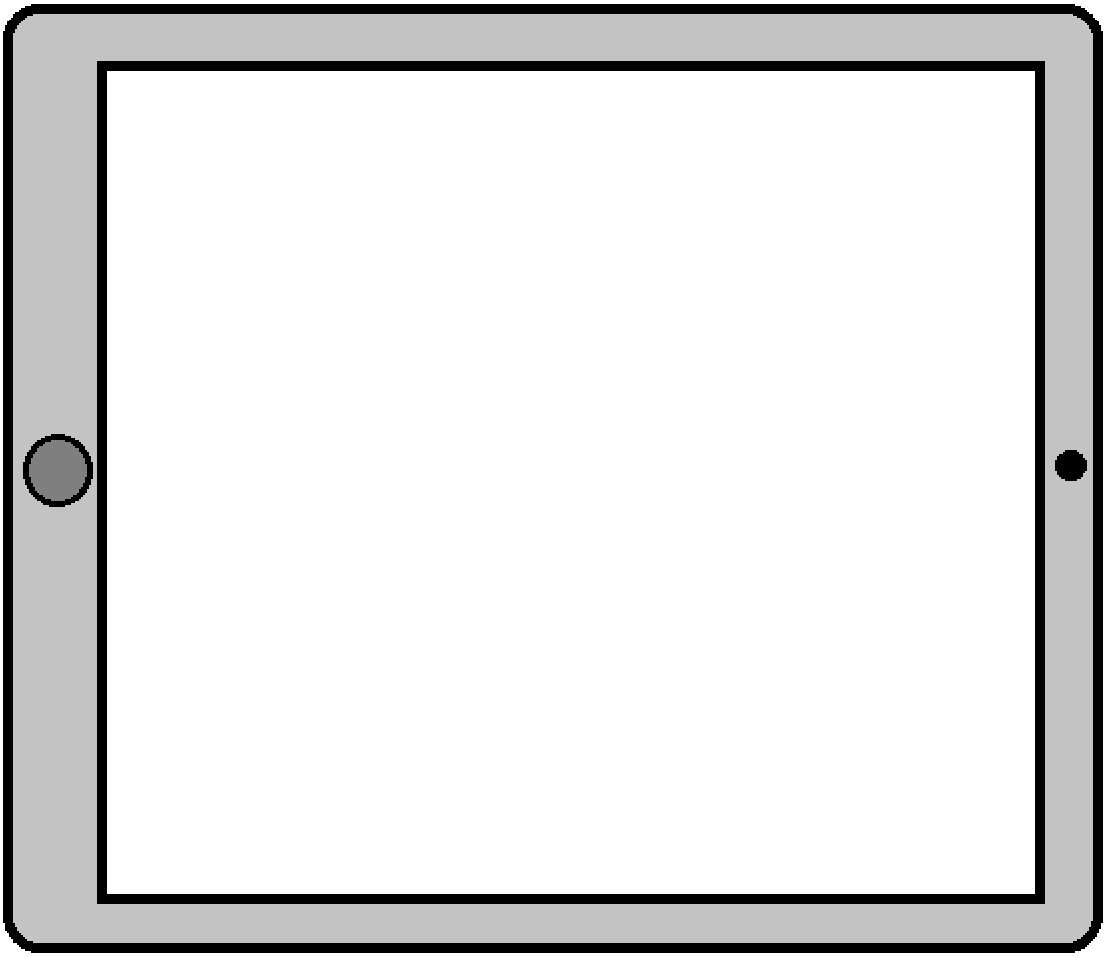
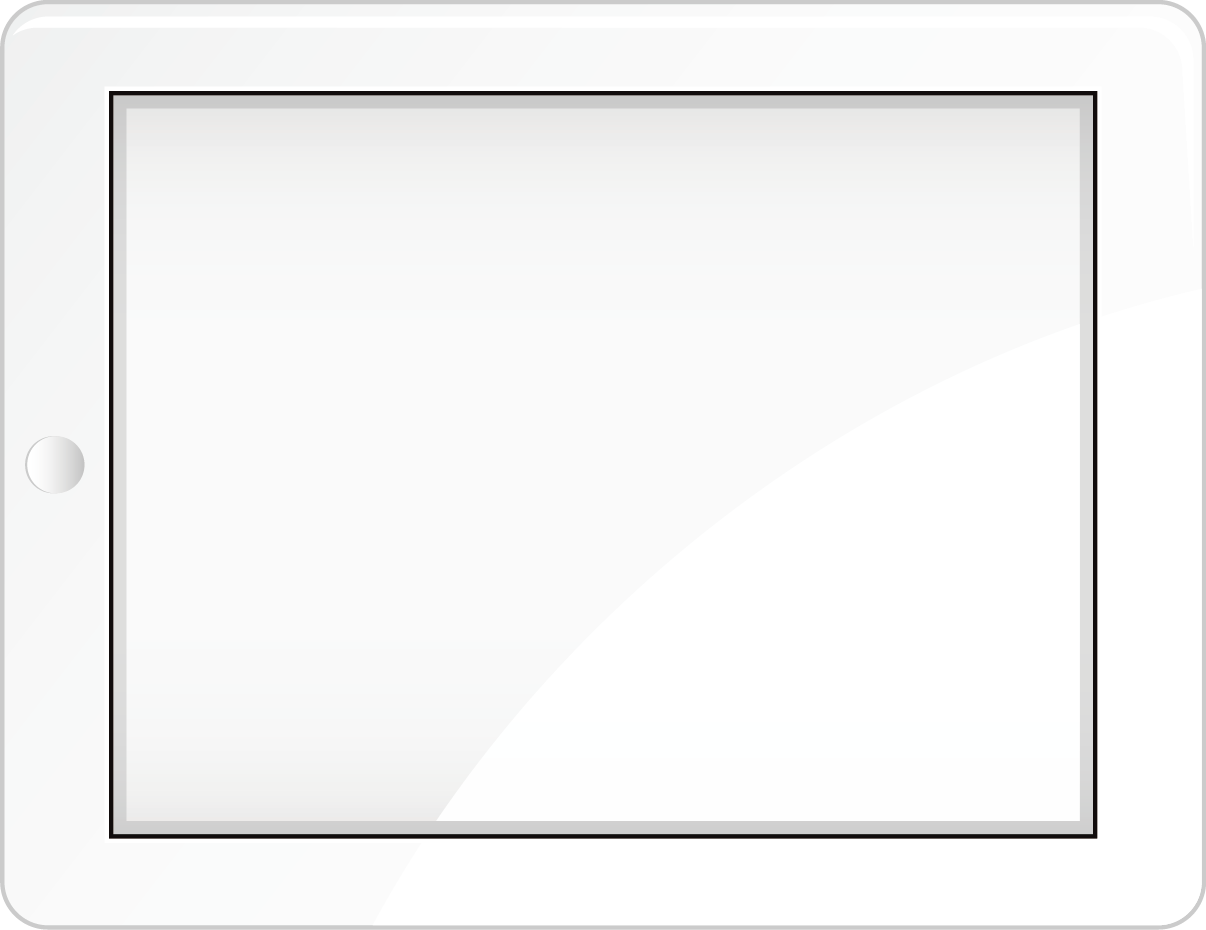
add ipad background

diff --git a/templates/legends.html b/templates/legends.html
@@ -8,45 +8,46 @@
 {% endblock %}
 
 {% block left %} 
-
+<div class="col-md-offset-3" >
+<div class="row">
 {% for item, cap in images1|zip(cap1) %}
-<div class="text-center">
+<div class="column2">
 	<figure>
-		<img src="static/img/{{item}}"  height="300" width="300"/>
+		<img src="static/img/{{item}}"  height="250" width="250"/>
 		<figcaption>{{cap}}</figcaption>
 	</figure>
 </div>
-<br>
-<br>
 {% endfor %}
-
-{% endblock %}
-
-
-{% block right %} 
-
-{% for item, cap in images2|zip(cap2) %}
-<div class="text-center">
-	<figure>
-		<img src="static/img/{{item}}"  height="500" width="500"/>
-		<figcaption>{{cap}}</figcaption>
-	</figure>
 </div>
-<br>
-<br>
-{% endfor %}
-
-{% endblock %}
-
-
-{% block bot %}
+</div>
 <div class = "row">
-	<div class="col-md-2 col-md-offset-4">
-	<iframe width="640" height="480"
+	<div class="col-md-2 col-md-offset-3">
+	<font color="red">Please watch this video about the initial setups carefully</font><br>
+	<iframe width="320" height="240"
 		src="https://www.youtube.com/embed/6rABvIGKmfw" allowfullscreen>
 	</iframe>
 	</div>
 </div>
+{% endblock %}
+
+
+{% block right %}
+<div class="col-md-offset-3" >
+<div class="row">
+{% for item, cap in images2|zip(cap2) %}
+<div class="column1">
+	<figure>
+		<img src="static/img/{{item}}"  height="450" width="450"/>
+		<figcaption>{{cap}}</figcaption>
+	</figure>
+</div>
+{% endfor %}
+</div>
+</div>
+{% endblock %}
+
+
+{% block bot %}
 
 {% if show %}
 <div class = "row">

diff --git a/templates/example.html b/templates/example.html
@@ -29,7 +29,7 @@
 
 </div>
  
-<button id = "show">submit</button>
+<button class=".btn-primary" id = "show">submit</button>
  	
 
 	
@@ -80,7 +80,7 @@ $(document).ready(function () {
 			case "111" :
 				$("#exp").empty().append(
 				`	<h3> Explanation: </h3>
-					<div class = "row">
+					<div class = "row col-md-offset-2">
 					<div class="column3">
     				<figure>
 						<img src="static/img/hand_empty.png"  height="100" width="100"/>
@@ -104,7 +104,7 @@ $(document).ready(function () {
 			case "121":
 			$("#exp").empty().append(
 				`	<h3> Explanation: </h3>
-					<div class = "row">
+					<div class = "row col-md-offset-2">
 					<div class="column1">
 					  <figure>
 						<img src="static/img/hand_orange.png"  height="100" width="100"/>
@@ -119,7 +119,7 @@ $(document).ready(function () {
 			case "211" :
 				$("#exp").empty().append(
 				`	<h3> Explanation: </h3>
-					<div class = "row">
+					<div class = "row col-md-offset-2">
 					<div class="column3">
     				<figure>
 						<img src="static/img/hand_empty.png"  height="100" width="100"/>
@@ -143,7 +143,7 @@ $(document).ready(function () {
 			case "221":
 			$("#exp").empty().append(
 				`	<h3> Explanation: </h3>
-					<div class = "row">
+					<div class = "row col-md-offset-2">
 					<div class="column1">
 					  <figure>
 						<img src="static/img/hand_cup.png"  height="100" width="100"/>

diff --git a/static/styles/style.css b/static/styles/style.css
@@ -25,4 +25,13 @@
   display: table;
 }
 
+body {
+background-image: url("/static/img/ipad.png");
+background-repeat: no-repeat;
+background-size: cover;
+ }
 
+ #bg{
+  padding-top: 200px;
+
+ }

diff --git a/templates/base.html b/templates/base.html
@@ -20,7 +20,7 @@
  {% endblock %}
 </head>
 <body>
-
+  <div id = "bg">
 
 <div class="container-fluid">
   <div class="row">
@@ -41,6 +41,7 @@
   	</div>
 </div>
 
+</div>
 </body>
 
 
